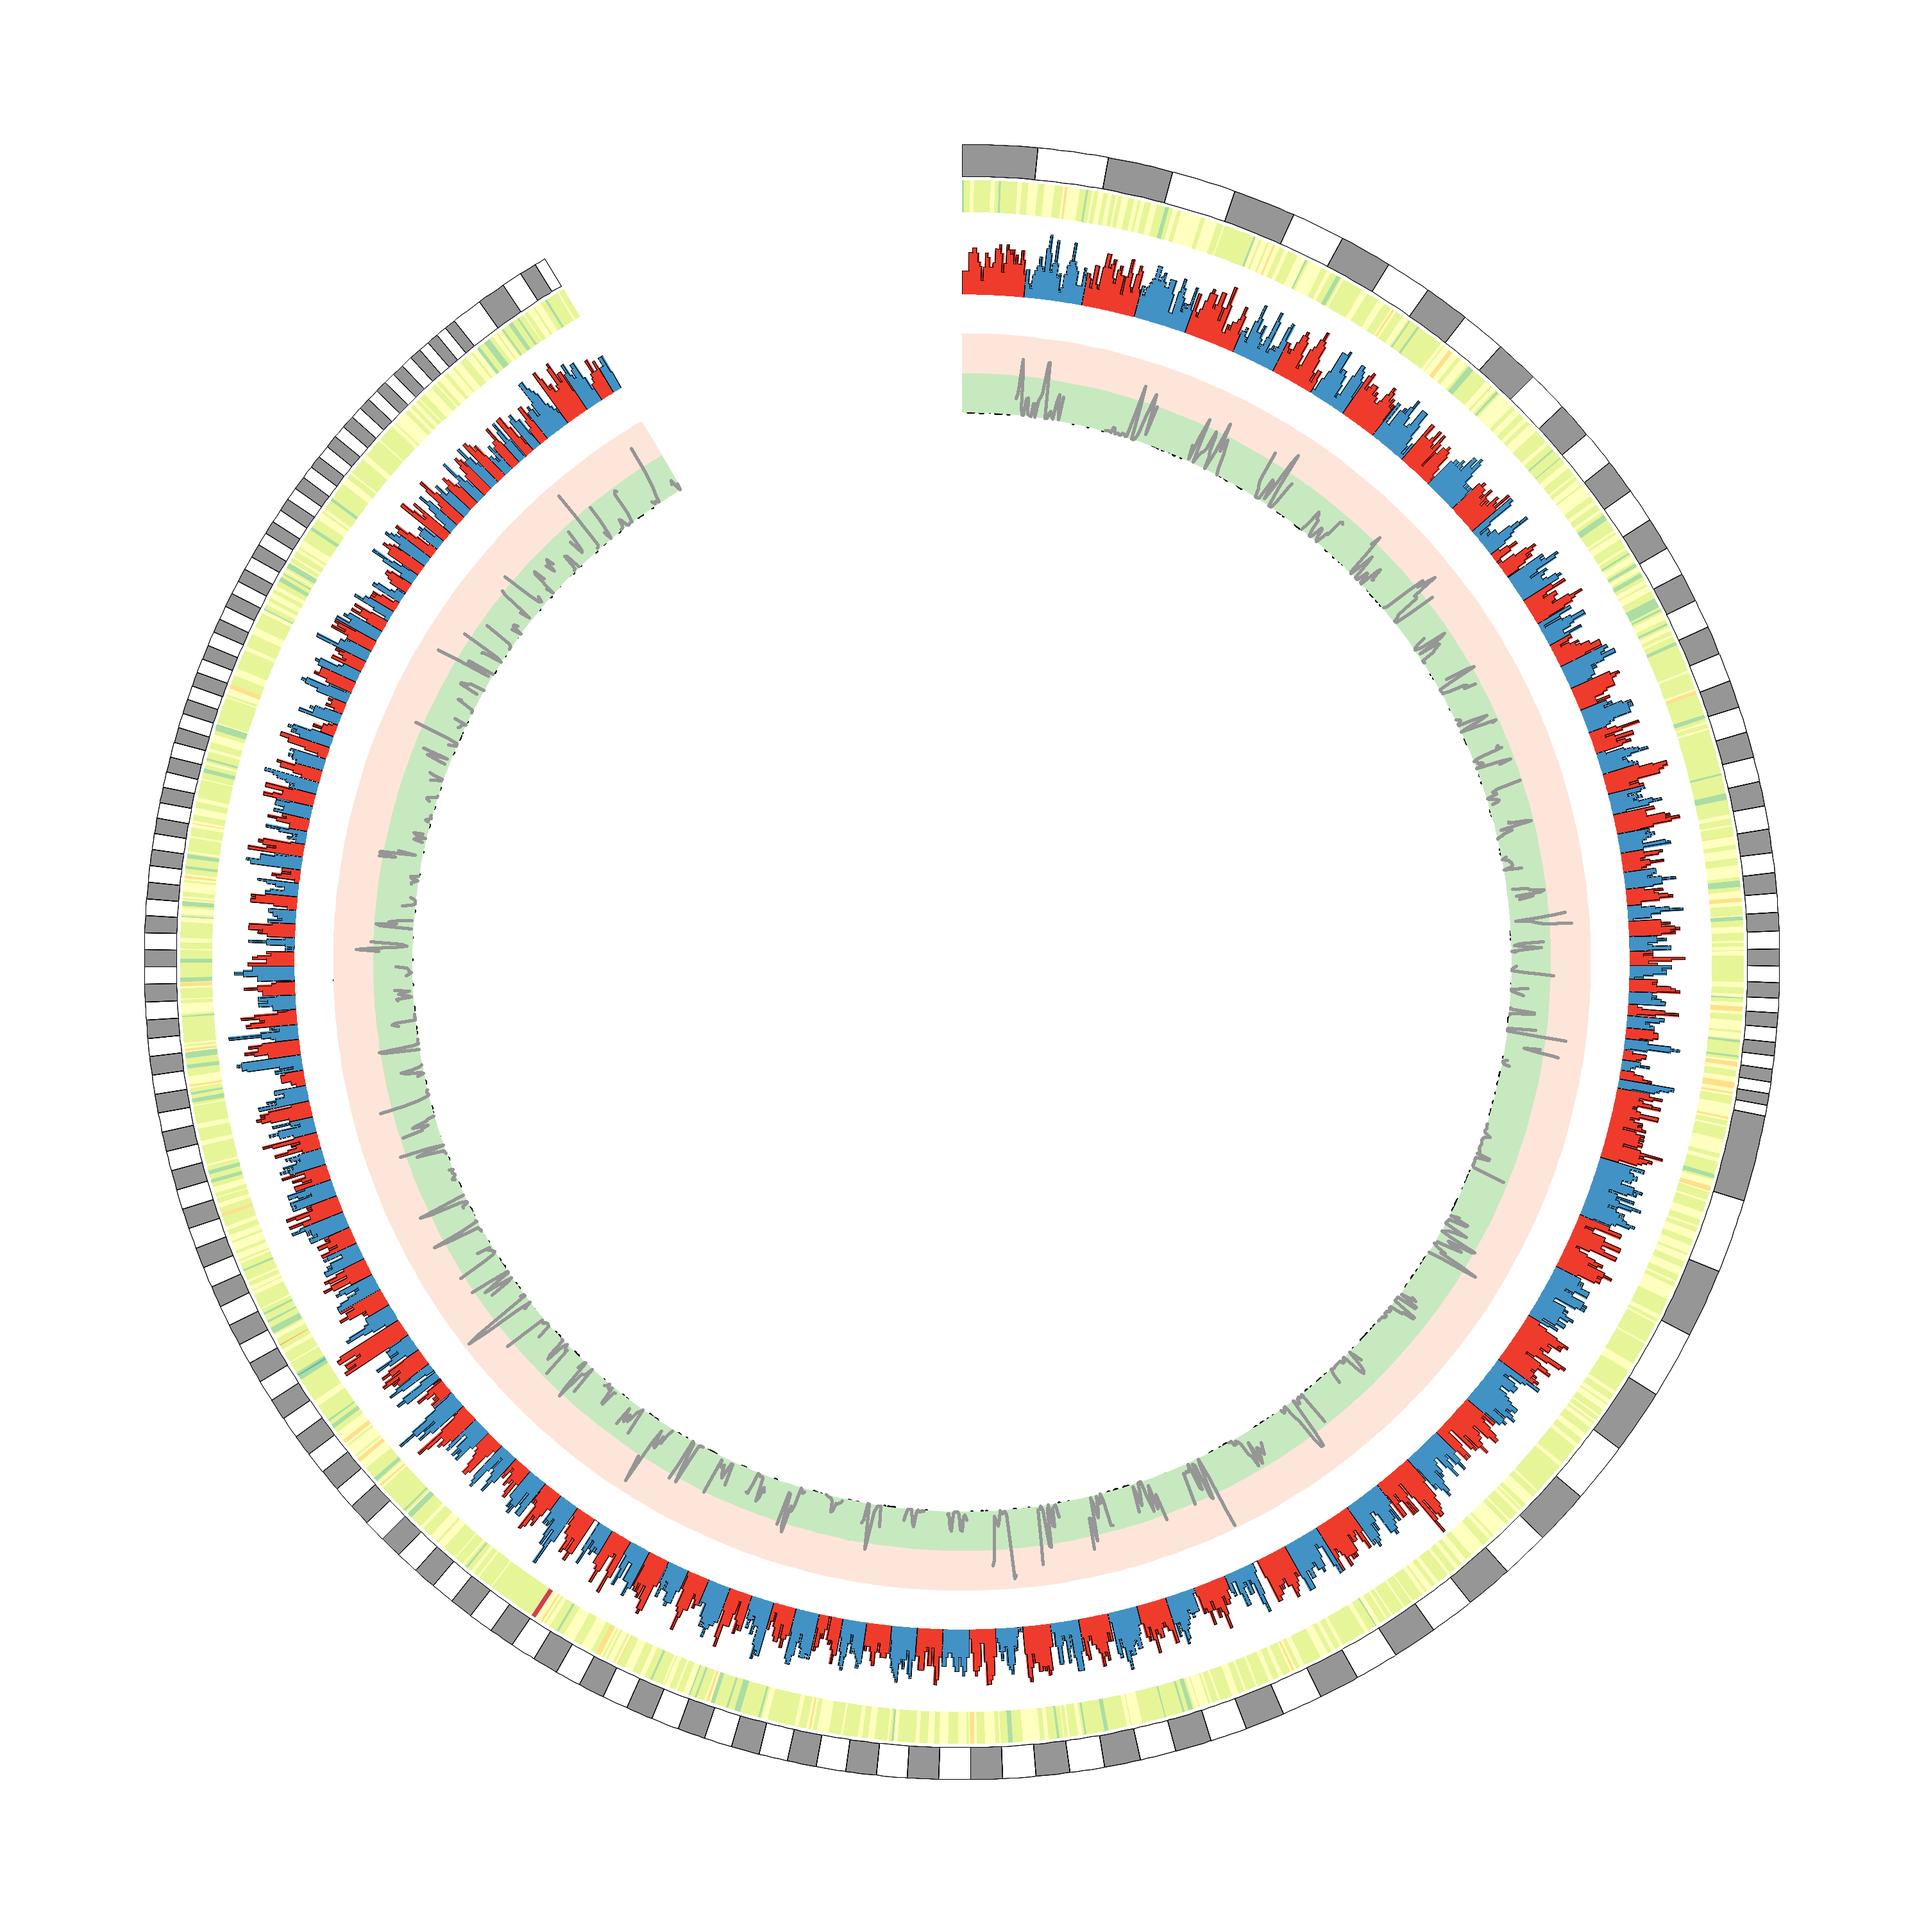
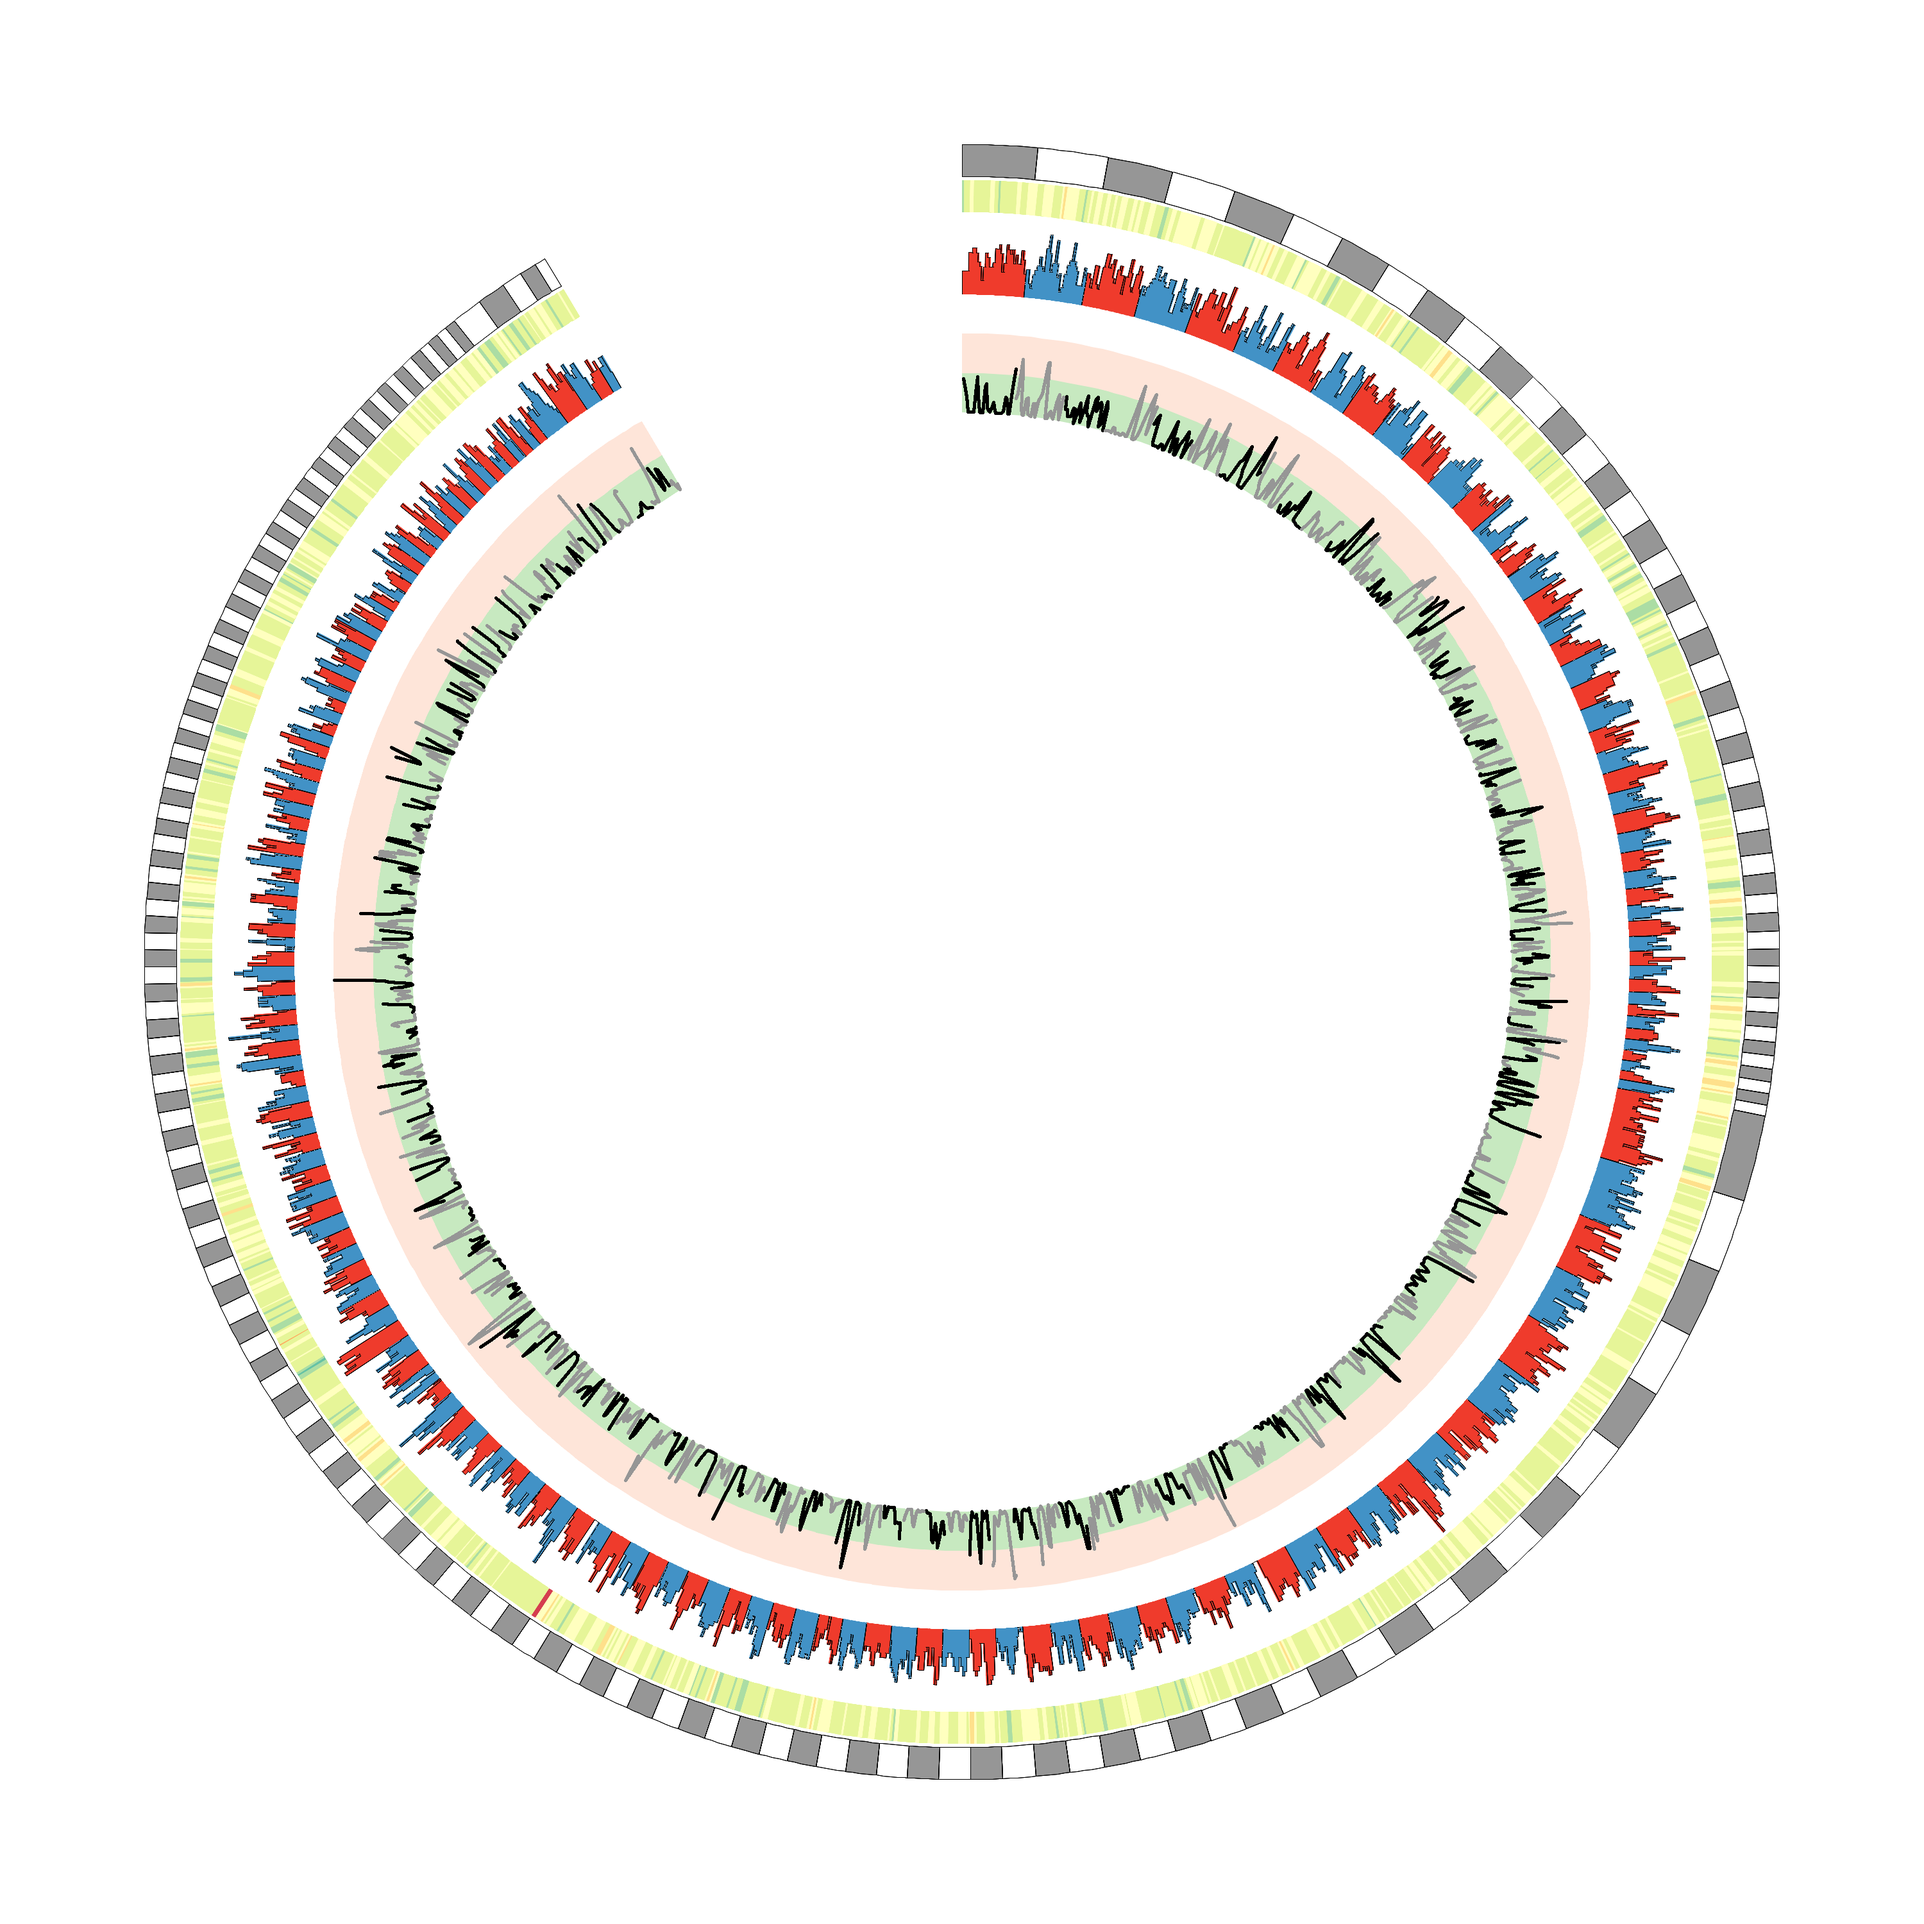
Fixed Layering Error

diff --git a/02HistogramsHeatmapsLinegraphs/README.md b/02HistogramsHeatmapsLinegraphs/README.md
@@ -164,7 +164,7 @@ circos Linegraph.conf
 
 ![Linegraph 1](./images/Linegraph1.png)
 
-For clarity, I like to shade the background of line plots. This can be done by adding a `<backgrounds>` block within the `<plot>` block. It only needs to go in one of the plot blocks, defined on the plane.
+For clarity, I like to shade the background of line plots. This can be done by adding a `<backgrounds>` block within the `<plot>` block. It should only go into the first plot, otherwise it will mask earlier layers on the plane.
 ```
 <plot>
 type = line
